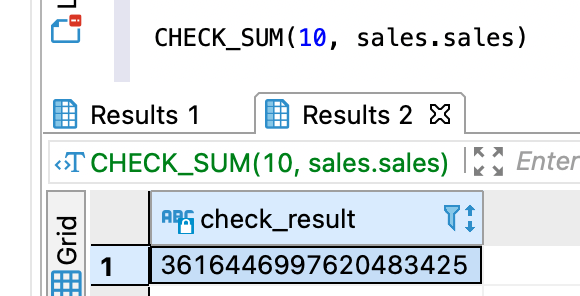
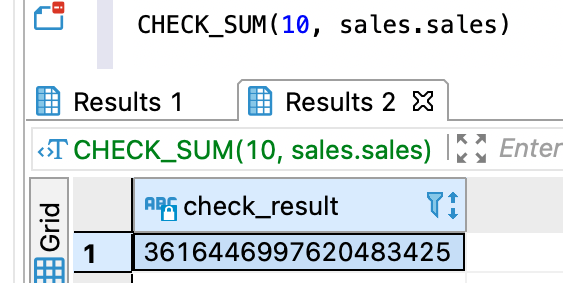
Check_data: scale small images (40% -> 50%)

Changed region(s): [[0.0, 0.0, 1.0, 1.0]]

diff --git a/Справочная_информация/Запросы_SQLplus/CHECK_SUM/CHECK_SUM.md b/Справочная_информация/Запросы_SQLplus/CHECK_SUM/CHECK_SUM.md
@@ -41,12 +41,12 @@ has_toc: false
 *Ответ CHECK_SUM по указанным столбцам таблицы*
 {: .figure-caption-center}
 
-![](check_sum_по_таблице_целиком.png){:height="40%" width="40%"}
+![](check_sum_по_таблице_целиком.png){:height="50%" width="50%"}
 {: .figure-center}
 *Ответ CHECK_SUM по логической таблице*
 {: .figure-caption-center}
 
-![](check_sum_по_логической_бд.png){:height="40%" width="40%"}
+![](check_sum_по_логической_бд.png){:height="50%" width="50%"}
 {: .figure-center}
 *Ответ CHECK_SUM по логической базе данных*
 {: .figure-caption-center}
